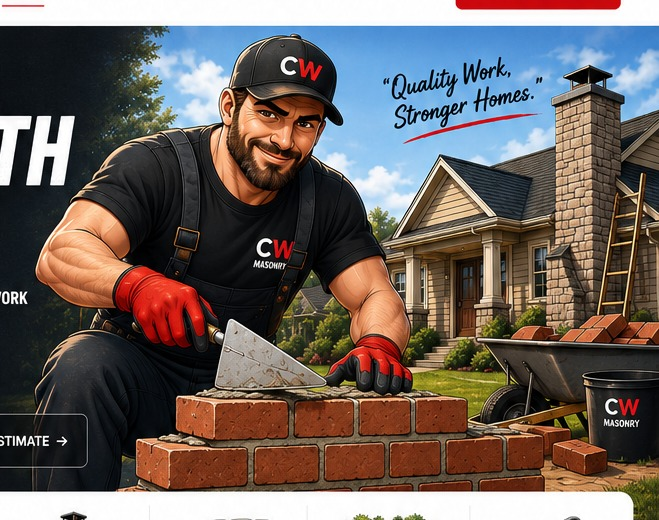
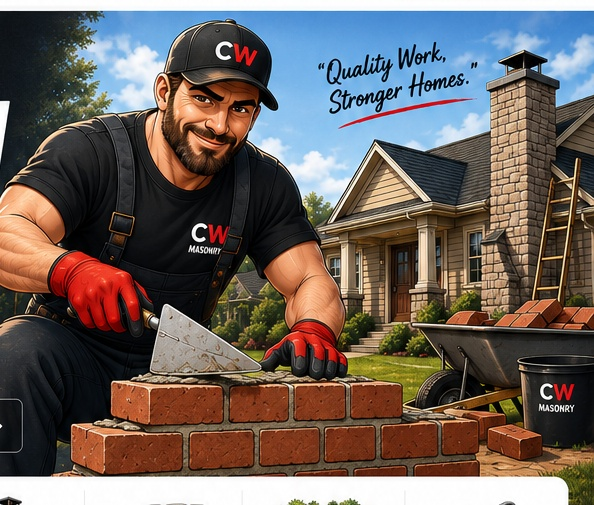
Add files via upload

diff --git a/index.html b/index.html
@@ -5,102 +5,44 @@
 <meta name="viewport" content="width=device-width,initial-scale=1">
 <title>CW Masonry | Masonry & Roofing Professionals</title>
 <style>
-:root{--r:#d71919;--r2:#ff3030;--b:#090b0d;--d:#111417;--w:#fff;--m:#697177}
-*{box-sizing:border-box}html{scroll-behavior:smooth}body{margin:0;font-family:Inter,Arial,sans-serif;background:#f5f4f1;color:#111}
-a{text-decoration:none;color:inherit}
-.top{height:35px;background:#080a0c;color:#eee;display:flex;justify-content:center;align-items:center;gap:28px;font-size:12px;font-weight:800}
-.top span{padding:0 20px;border-right:1px solid #555}.top span:last-child{border:0}
-nav{height:78px;background:#fff;display:flex;align-items:center;justify-content:space-between;padding:0 5%;position:sticky;top:0;z-index:20;box-shadow:0 3px 15px #0002}
-.logo{font-size:28px;font-weight:1000;letter-spacing:-1.5px}.logo b{color:var(--r)}.logo small{display:block;color:#555;font-size:8px;letter-spacing:2px}
-.links{display:flex;gap:32px;font-size:14px;font-weight:800}.links a:hover{color:var(--r)}
-.cta{background:var(--r);color:#fff;padding:14px 22px;border-radius:8px;font-weight:1000;box-shadow:0 8px 22px #d7191930}
-
-.hero{background:#080e12;color:#fff;overflow:hidden;position:relative}
-.hero-inner{max-width:1280px;min-height:555px;margin:auto;padding:0 5%;display:grid;grid-template-columns:.9fr 1.1fr;align-items:center;gap:10px}
-.copy{position:relative;z-index:3;padding:45px 0 75px}.tag{display:inline-block;background:var(--r);padding:10px 20px;font-weight:1000;transform:skew(-8deg);box-shadow:8px 8px 0 #861111}.tag span{display:block;transform:skew(8deg)}
-h1{font-size:clamp(48px,6vw,82px);line-height:.88;letter-spacing:-4px;margin:28px 0 15px;text-transform:uppercase;text-shadow:3px 5px 0 #000}
-h1 em{color:#ff2929;font-style:italic}.chips{display:flex;gap:12px;flex-wrap:wrap;font-size:12px;font-weight:1000;letter-spacing:1px}.chips b:not(:last-child):after{content:"•";color:var(--r2);margin-left:12px}
-.copy p{max-width:570px;color:#e1e7e9;font-size:17px;line-height:1.55}.actions{display:flex;gap:12px;flex-wrap:wrap;margin-top:24px}.btn{padding:15px 22px;border:1px solid #fff8;border-radius:7px;font-weight:1000}.btn.red{background:var(--r);border-color:var(--r)}
-.hero-art{height:555px;position:relative;display:flex;align-items:flex-end;justify-content:flex-end}.hero-art:after{content:"";position:absolute;inset:0;background:linear-gradient(90deg,#080e12 0%,transparent 22%);pointer-events:none}.hero-art img{height:100%;width:100%;object-fit:cover;object-position:center;border-radius:0}
-.badge{position:absolute;right:5%;top:60px;z-index:4;color:#111;background:#fff;padding:10px 16px;border-radius:999px;font-size:11px;font-weight:1000;box-shadow:0 8px 25px #0005}
-
-.services{max-width:1200px;margin:-38px auto 0;position:relative;z-index:5;background:#fff;border-radius:18px;padding:10px;display:grid;grid-template-columns:repeat(6,1fr);box-shadow:0 15px 40px #0003}
-.svc{text-align:center;padding:16px 7px;border-right:1px solid #ddd;transition:.25s}.svc:last-child{border:0}.svc:hover{transform:translateY(-5px)}
-.svc .ico{font-size:44px;height:65px;display:grid;place-items:center}.svc strong{display:block;font-size:15px}.svc small{display:block;color:var(--r);font-weight:900;margin-top:8px}
-
-.work{background:#111417;color:#fff;padding:72px 5% 78px;margin-top:0}.work-inner{max-width:1200px;margin:auto;display:grid;grid-template-columns:245px 1fr;gap:35px;align-items:center}
-.ey{color:#ff2929;font-weight:1000;letter-spacing:2px}.work h2{font-size:46px;line-height:.92;margin:10px 0 16px;text-transform:uppercase}.work h2 em{color:#ff2929;font-style:italic}.work p{color:#c5cacc;line-height:1.6}.gallery{display:grid;grid-template-columns:repeat(5,1fr);gap:12px}.card{height:205px;border-radius:10px;overflow:hidden;border:1px solid #555;background:#222;position:relative}.card img{width:100%;height:100%;object-fit:cover}.card .label{position:absolute;left:0;right:0;bottom:0;background:#000c;padding:12px;font-weight:900;font-size:13px}
-
-.stats{background:linear-gradient(90deg,#d71919,#f21c1c);color:#fff;display:grid;grid-template-columns:repeat(4,1fr);text-align:center}.stats div{padding:30px 10px;border-right:1px solid #fff4}.stats strong{font-size:30px;display:block}.stats span{font-size:12px;font-weight:900}
-
+:root{--r:#d71919;--b:#080b0d;--d:#111416;--w:#fff}
+*{box-sizing:border-box}html{scroll-behavior:smooth}body{margin:0;font-family:Inter,Arial,sans-serif;background:#f5f4f1;color:#111}a{text-decoration:none;color:inherit}
+.top{height:34px;background:#080a0c;color:#eee;display:flex;justify-content:center;align-items:center;gap:26px;font-size:11px;font-weight:800}.top span{padding:0 18px;border-right:1px solid #555}.top span:last-child{border:0}
+nav{height:78px;background:#fff;display:flex;align-items:center;justify-content:space-between;padding:0 5%;position:sticky;top:0;z-index:20;box-shadow:0 3px 15px #0002}.logo{font-size:28px;font-weight:1000;letter-spacing:-1.5px}.logo b{color:var(--r)}.logo small{display:block;color:#555;font-size:8px;letter-spacing:2px}.links{display:flex;gap:32px;font-size:14px;font-weight:800}.links a:hover{color:var(--r)}.cta{background:var(--r);color:#fff;padding:14px 22px;border-radius:8px;font-weight:1000}
+.hero{background:#080e12;color:#fff;overflow:hidden}.hero-inner{max-width:1280px;min-height:560px;margin:auto;padding:0 5%;display:grid;grid-template-columns:.82fr 1.18fr;align-items:center}.copy{padding:45px 0 60px;position:relative;z-index:3}.tag{display:inline-block;background:var(--r);padding:10px 20px;font-weight:1000;transform:skew(-8deg);box-shadow:8px 8px 0 #861111}.tag span{display:block;transform:skew(8deg)}h1{font-size:clamp(48px,6vw,80px);line-height:.88;letter-spacing:-4px;margin:27px 0 16px;text-transform:uppercase;text-shadow:3px 5px #000}h1 em{color:#ff2929;font-style:italic}.chips{display:flex;gap:11px;flex-wrap:wrap;font-size:11px;font-weight:1000;letter-spacing:1px}.chips b:not(:last-child):after{content:"•";color:#ff2929;margin-left:11px}.copy p{max-width:540px;color:#e1e7e9;font-size:16px;line-height:1.6}.actions{display:flex;gap:12px;flex-wrap:wrap;margin-top:24px}.btn{padding:15px 22px;border:1px solid #fff8;border-radius:7px;font-weight:1000}.btn.red{background:var(--r);border-color:var(--r)}
+.hero-art{height:560px;position:relative;display:flex;align-items:stretch;overflow:hidden}.hero-art:before{content:"";position:absolute;z-index:2;left:0;top:0;bottom:0;width:22%;background:linear-gradient(90deg,#080e12,transparent)}.hero-art img{width:100%;height:100%;object-fit:contain;object-position:center;background:#080e12}.badge{position:absolute;z-index:4;right:4%;top:55px;background:#fff;color:#111;padding:9px 14px;border-radius:20px;font-size:10px;font-weight:1000;box-shadow:0 8px 20px #0006}
+.services{max-width:1200px;margin:-38px auto 0;position:relative;z-index:5;background:#fff;border-radius:18px;padding:8px;display:grid;grid-template-columns:repeat(6,1fr);box-shadow:0 15px 40px #0003}.svc{text-align:center;padding:15px 6px;border-right:1px solid #ddd;transition:.25s}.svc:last-child{border:0}.svc:hover{transform:translateY(-5px)}.svc .ico{font-size:42px;height:60px;display:grid;place-items:center}.svc strong{display:block;font-size:14px}.svc small{display:block;color:var(--r);font-weight:900;margin-top:7px}
+.work{background:#111417;color:#fff;padding:72px 5% 78px}.work-inner{max-width:1200px;margin:auto;display:grid;grid-template-columns:230px 1fr;gap:38px;align-items:center}.ey{color:#ff2929;font-weight:1000;letter-spacing:2px}.work h2{font-size:44px;line-height:.94;margin:10px 0 15px;text-transform:uppercase}.work h2 em{color:#ff2929;font-style:italic}.work p{color:#c5cacc;line-height:1.55}.gallery{display:grid;grid-template-columns:repeat(5,1fr);gap:10px}.card{height:205px;border-radius:10px;overflow:hidden;border:1px solid #555;background:#222;position:relative}.card img{width:100%;height:100%;object-fit:cover;transition:.45s}.card:hover img{transform:scale(1.06)}.card .label{position:absolute;left:0;right:0;bottom:0;background:linear-gradient(transparent,#000e);padding:28px 10px 11px;font-weight:900;font-size:12px}
+.stats{background:linear-gradient(90deg,#d71919,#f21c1c);color:#fff;display:grid;grid-template-columns:repeat(4,1fr);text-align:center}.stats div{padding:29px 10px;border-right:1px solid #fff4}.stats strong{font-size:30px;display:block}.stats span{font-size:11px;font-weight:900}
 .contact{padding:72px 5%;background:#f5f4f1}.contact-box{max-width:1100px;margin:auto;background:#151719;color:#fff;border-radius:18px;padding:42px;display:grid;grid-template-columns:1fr 1fr;gap:35px}.contact-box h2{font-size:43px;line-height:1;margin:10px 0}.contact-box p{color:#c8cdcf;line-height:1.6}.form input,.form select,.form textarea{width:100%;margin:6px 0;padding:14px;border:1px solid #444;background:#222;color:#fff;border-radius:6px}.form textarea{min-height:120px}.form button{width:100%;padding:15px;background:var(--r);color:#fff;border:0;border-radius:6px;font-weight:1000}
 footer{background:#080a0c;color:#aaa;padding:24px 5%;display:flex;justify-content:space-between;gap:15px;flex-wrap:wrap;font-size:13px}
-
-@media(max-width:900px){
-.top{height:auto;padding:8px 10px;gap:4px}.top span{padding:0 7px;font-size:9px}.top span:nth-child(2){display:none}
-nav{height:70px;padding:0 5%}.links{display:none}.logo{font-size:23px}.cta{padding:12px 14px;font-size:11px}
-.hero-inner{grid-template-columns:1fr;padding:0 5%;min-height:auto}.copy{padding:40px 0 20px}.hero-art{height:390px;margin:0 -5%}.hero-art img{object-position:center top}.badge{top:18px;right:8%}
-h1{font-size:clamp(44px,12vw,65px);letter-spacing:-2px}
-.services{margin:-18px 10px 0;grid-template-columns:repeat(2,1fr)}.svc:nth-child(even){border:0}.svc .ico{height:55px;font-size:36px}
-.work{padding:55px 5%}.work-inner{grid-template-columns:1fr}.work h2{font-size:40px}.gallery{grid-template-columns:repeat(2,1fr)}.card{height:180px}
-.stats{grid-template-columns:repeat(2,1fr)}.stats div{border-bottom:1px solid #fff4}
-.contact-box{grid-template-columns:1fr;padding:30px 22px}.contact-box h2{font-size:37px}
-}
+@media(max-width:900px){.top{height:auto;padding:8px;gap:3px}.top span{padding:0 7px;font-size:8px}.top span:nth-child(2){display:none}nav{height:70px;padding:0 5%}.links{display:none}.logo{font-size:23px}.cta{padding:12px 14px;font-size:11px}.hero-inner{grid-template-columns:1fr;padding:0 5%;min-height:auto}.copy{padding:40px 0 20px}h1{font-size:clamp(44px,12vw,64px);letter-spacing:-2px}.hero-art{height:390px;margin:0 -5%}.hero-art img{object-position:center}.services{margin:-18px 10px 0;grid-template-columns:repeat(2,1fr)}.svc:nth-child(even){border:0}.work{padding:55px 5%}.work-inner{grid-template-columns:1fr}.work h2{font-size:40px}.gallery{grid-template-columns:repeat(2,1fr)}.card{height:190px}.stats{grid-template-columns:repeat(2,1fr)}.stats div{border-bottom:1px solid #fff4}.contact-box{grid-template-columns:1fr;padding:30px 22px}.contact-box h2{font-size:37px}}
 </style>
 </head>
 <body>
 <div class="top"><span>☎ (603) 674-0492</span><span>📍 Manchester, NH & Surrounding Areas</span><span>🛡 Fully Insured</span><span>★ Free Estimates</span></div>
+<nav><a class="logo" href="#">CW <b>MASONRY</b><small>MASONRY & ROOFING PROFESSIONALS</small></a><div class="links"><a href="#home">Home</a><a href="#services">Services</a><a href="#work">Our Work</a><a href="#about">About</a><a href="#contact">Contact</a></div><a class="cta" href="#contact">☎ FREE ESTIMATE</a></nav>
 
-<nav>
-<a class="logo" href="#">CW <b>MASONRY</b><small>MASONRY & ROOFING PROFESSIONALS</small></a>
-<div class="links"><a href="#home">Home</a><a href="#services">Services</a><a href="#work">Our Work</a><a href="#about">About</a><a href="#contact">Contact</a></div>
-<a class="cta" href="#contact">☎ FREE ESTIMATE</a>
-</nav>
-
-<header class="hero" id="home">
-<div class="hero-inner">
-<div class="copy">
-<div class="tag"><span>24+ YEARS IN BUSINESS</span></div>
-<h1>BUILT WITH <em>CARE.</em></h1>
-<div class="chips"><b>MASONRY</b><b>ROOFING</b><b>CHIMNEY</b><b>STONEWORK</b></div>
-<p>Professional masonry, roofing, chimney repair and stonework for homes and businesses in Manchester, NH and surrounding communities.</p>
-<div class="actions"><a class="btn red" href="tel:+16036740492">☎ CALL NOW<br>(603) 674-0492</a><a class="btn" href="#contact">✉ GET A FREE ESTIMATE →</a></div>
-</div>
-<div class="hero-art"><div class="badge">QUALITY WORK • STRONGER HOMES</div><img src="hero-mason.jpg" alt="Illustrated mason working on a brick wall"></div>
-</div>
-</header>
+<header class="hero" id="home"><div class="hero-inner">
+<div class="copy"><div class="tag"><span>24+ YEARS IN BUSINESS</span></div><h1>BUILT WITH <em>CARE.</em></h1><div class="chips"><b>MASONRY</b><b>ROOFING</b><b>CHIMNEY</b><b>STONEWORK</b></div><p>Professional masonry, roofing, chimney repair and stonework for homes and businesses in Manchester, NH and surrounding communities.</p><div class="actions"><a class="btn red" href="tel:+16036740492">☎ CALL NOW<br>(603) 674-0492</a><a class="btn" href="#contact">✉ GET A FREE ESTIMATE →</a></div></div>
+<div class="hero-art"><div class="badge">QUALITY WORK • STRONGER HOMES</div><img src="hero-mason.jpg" alt="Detailed illustrated mason laying bricks"></div>
+</div></header>
 
 <section class="services" id="services">
-<a class="svc" href="#contact"><div class="ico">🧱</div><strong>Masonry</strong><small>Learn More →</small></a>
-<a class="svc" href="#contact"><div class="ico">🏠</div><strong>Roofing</strong><small>Learn More →</small></a>
-<a class="svc" href="#contact"><div class="ico">🔥</div><strong>Chimney Repair</strong><small>Learn More →</small></a>
-<a class="svc" href="#contact"><div class="ico">🪨</div><strong>Stone Work</strong><small>Learn More →</small></a>
-<a class="svc" href="#contact"><div class="ico">🌿</div><strong>Patios & Walkways</strong><small>Learn More →</small></a>
-<a class="svc" href="#contact"><div class="ico">🛠</div><strong>Restoration</strong><small>Learn More →</small></a>
+<a class="svc" href="#contact"><div class="ico">🧱</div><strong>Masonry</strong><small>Learn More →</small></a><a class="svc" href="#contact"><div class="ico">🏠</div><strong>Roofing</strong><small>Learn More →</small></a><a class="svc" href="#contact"><div class="ico">🔥</div><strong>Chimney Repair</strong><small>Learn More →</small></a><a class="svc" href="#contact"><div class="ico">🪨</div><strong>Stone Work</strong><small>Learn More →</small></a><a class="svc" href="#contact"><div class="ico">🌿</div><strong>Patios & Walkways</strong><small>Learn More →</small></a><a class="svc" href="#contact"><div class="ico">🛠</div><strong>Restoration</strong><small>Learn More →</small></a>
 </section>
 
-<section class="work" id="work">
-<div class="work-inner">
-<div><div class="ey">OUR WORK</div><h2>QUALITY YOU <em>CAN SEE.</em></h2><p>Showcase the craftsmanship behind every project with a clean, visual portfolio.</p><a class="btn red" href="#contact">VIEW MORE WORK →</a></div>
+<section class="work" id="work"><div class="work-inner"><div><div class="ey">OUR WORK</div><h2>QUALITY YOU <em>CAN SEE.</em></h2><p>Showcase the craftsmanship behind every project with a clean, visual portfolio.</p><a class="btn red" href="#contact">VIEW MORE WORK →</a></div>
 <div class="gallery">
-<div class="card"><img src="hero-mason.jpg" alt="Masonry project"><div class="label">Brickwork →</div></div>
-<div class="card"><img src="hero-mason.jpg" alt="Chimney work" style="object-position:70% 20%"><div class="label">Chimney Repair →</div></div>
-<div class="card"><img src="hero-mason.jpg" alt="Stonework" style="object-position:90% 70%"><div class="label">Stone Work →</div></div>
-<div class="card"><img src="hero-mason.jpg" alt="Patio work" style="object-position:70% 85%"><div class="label">Patios →</div></div>
-<div class="card"><img src="hero-mason.jpg" alt="Roofing" style="object-position:90% 10%"><div class="label">Roofing →</div></div>
-</div>
-</div>
-</section>
+<div class="card"><img src="brick-steps.jpg" alt="Brick steps"><div class="label">Brick Steps →</div></div>
+<div class="card"><img src="chimney.jpg" alt="Chimney repair"><div class="label">Chimney Repair →</div></div>
+<div class="card"><img src="stone-wall.jpg" alt="Stone wall"><div class="label">Stone Wall →</div></div>
+<div class="card"><img src="patio.jpg" alt="Patio"><div class="label">Patio →</div></div>
+<div class="card"><img src="roofing.jpg" alt="Roofing"><div class="label">Roofing →</div></div>
+</div></div></section>
 
 <section class="stats" id="about"><div><strong>24+</strong><span>YEARS EXPERIENCE</span></div><div><strong>FREE</strong><span>ESTIMATES</span></div><div><strong>100%</strong><span>PROFESSIONAL</span></div><div><strong>INSURED</strong><span>FOR YOUR PROTECTION</span></div></section>
 
-<section class="contact" id="contact">
-<div class="contact-box">
-<div><div class="ey">START YOUR PROJECT</div><h2>LET'S BUILD IT RIGHT.</h2><p>Call or send an estimate request. Final business details, photos and content can be customized after approval.</p><p>☎ <b>(603) 674-0492</b><br>📍 Manchester, NH</p><a class="btn red" href="tel:+16036740492">CALL CW MASONRY</a></div>
-<form class="form" onsubmit="event.preventDefault();alert('Demo form — connect this to the client email/CRM before launch.')"><input placeholder="Your Name" required><input type="tel" placeholder="Phone Number" required><select><option>Project Type</option><option>Masonry</option><option>Roofing</option><option>Chimney Repair</option><option>Stone Work</option><option>Patios & Walkways</option><option>Restoration</option></select><textarea placeholder="Tell us about your project"></textarea><button>SEND ESTIMATE REQUEST</button></form>
-</div>
-</section>
-
+<section class="contact" id="contact"><div class="contact-box"><div><div class="ey">START YOUR PROJECT</div><h2>LET'S BUILD IT RIGHT.</h2><p>Call or send an estimate request. Final business details, photos and content can be customized after approval.</p><p>☎ <b>(603) 674-0492</b><br>📍 Manchester, NH</p><a class="btn red" href="tel:+16036740492">CALL CW MASONRY</a></div><form class="form" onsubmit="event.preventDefault();alert('Demo form — connect this to the client email/CRM before launch.')"><input placeholder="Your Name" required><input type="tel" placeholder="Phone Number" required><select><option>Project Type</option><option>Masonry</option><option>Roofing</option><option>Chimney Repair</option><option>Stone Work</option><option>Patios & Walkways</option><option>Restoration</option></select><textarea placeholder="Tell us about your project"></textarea><button>SEND ESTIMATE REQUEST</button></form></div></section>
 <footer><span>© CW Masonry — Website Redesign Concept</span><span>Built with care. Backed by experience.</span></footer>
-</body>
-</html>
+</body></html>
